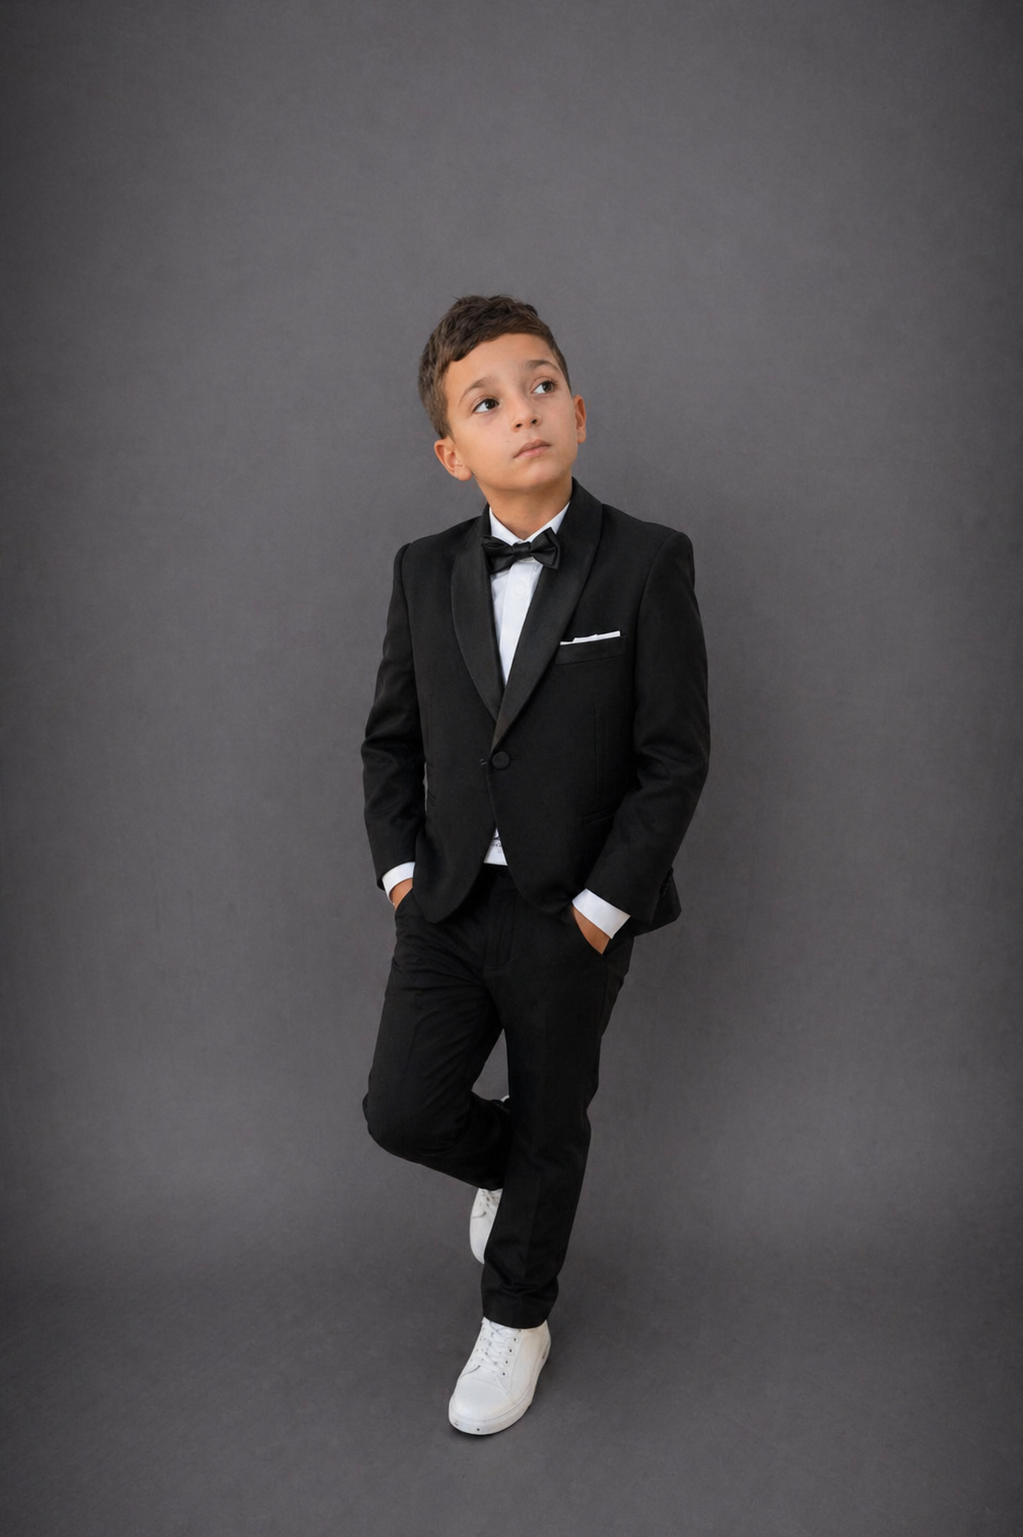
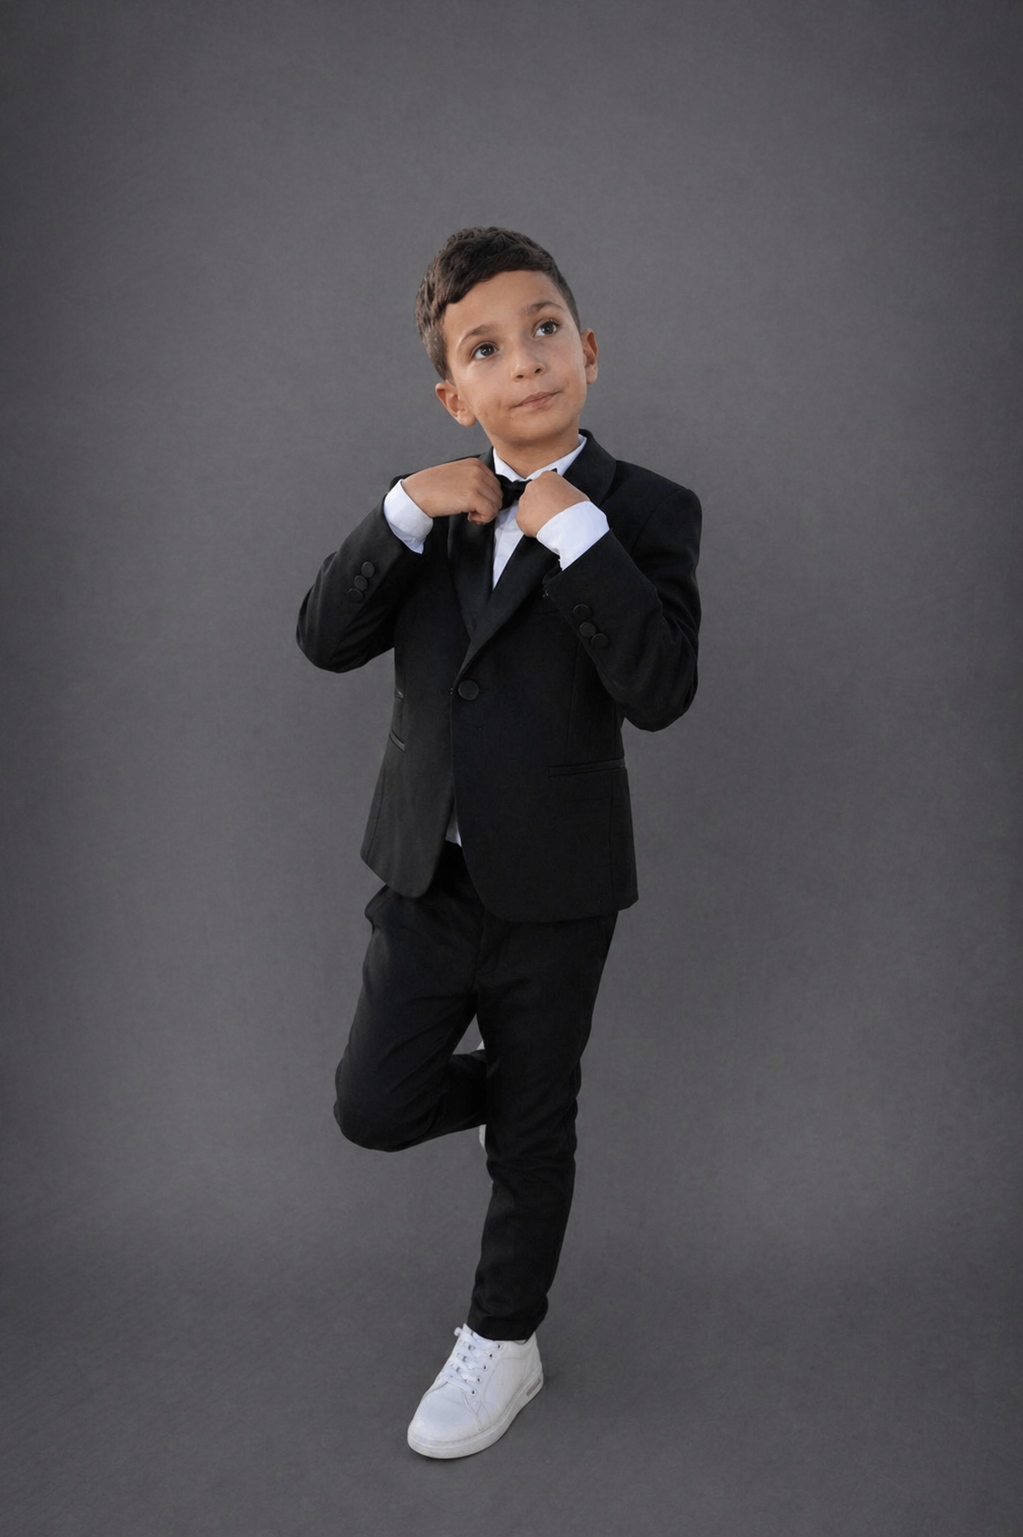
Move final misplaced sky-blue image from tuxedo to children sky-blue
- y-suit-parade__tuxedo-black: 3 images
- c-suit-parade__sky-blue: 4 images

Changed region(s): [[0.2727, 0.1249, 0.697, 0.9681]]

diff --git a/index.html b/index.html
@@ -797,8 +797,8 @@ const IMAGES={
   'y-suit-linen__mint-green':['photos/youth-linen-mint-1.png','photos/youth-linen-mint-2.png','photos/youth-linen-mint-3.png','photos/youth-linen-mint-4.png','photos/youth-linen-mint-5.png','photos/youth-linen-mint-6.png'],
   'y-suit-parade__light-grey':['photos/youth-parade-1.png','photos/youth-parade-2.png','photos/youth-parade-3.png','photos/youth-parade-4.png','photos/youth-parade-5.png'],
   'y-suit-parade__mint-green':['photos/youth-parade-mint-1.png','photos/youth-parade-mint-2.png','photos/youth-parade-mint-3.png','photos/youth-parade-mint-4.png','photos/youth-parade-mint-5.png'],
-  'y-suit-parade__tuxedo-black':['photos/youth-parade-tuxedo-1.png','photos/youth-parade-tuxedo-2.png','photos/youth-parade-tuxedo-3.png','photos/youth-parade-tuxedo-4.png'],
-  'c-suit-parade__sky-blue':['photos/child-parade-sky-1.png','photos/child-parade-sky-2.png','photos/child-parade-sky-3.png'],
+  'y-suit-parade__tuxedo-black':['photos/youth-parade-tuxedo-1.png','photos/youth-parade-tuxedo-2.png','photos/youth-parade-tuxedo-3.png'],
+  'c-suit-parade__sky-blue':['photos/child-parade-sky-1.png','photos/child-parade-sky-2.png','photos/child-parade-sky-3.png','photos/child-parade-sky-4.png'],
   'y-suit-parade__sky-blue':['photos/youth-parade-sky-1.png','photos/youth-parade-sky-2.png','photos/youth-parade-sky-3.png','photos/youth-parade-sky-4.png'],
   'c-suit-linen__light-grey':['photos/child-linen-grey-1.png','photos/child-linen-grey-2.png','photos/child-linen-grey-3.png','photos/child-linen-grey-4.png'],
   'c-suit-linen__sky-blue':['photos/child-linen-sky-1.png'],
